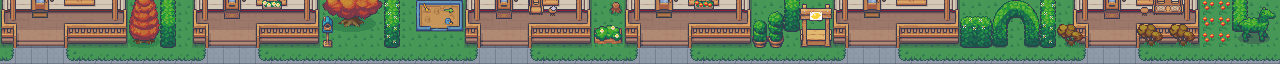
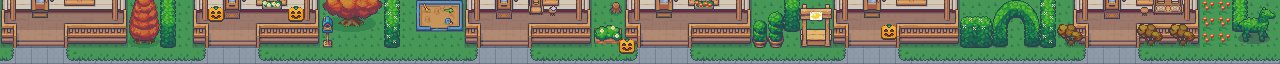
working on city

diff --git a/raw/maps/9_Shopping_Center_and_Markets_16x16.tsx b/raw/maps/9_Shopping_Center_and_Markets_16x16.tsx
@@ -1,0 +1,4 @@
+<?xml version="1.0" encoding="UTF-8"?>
+<tileset version="1.10" tiledversion="1.10.2" name="9_Shopping_Center_and_Markets_16x16" tilewidth="16" tileheight="16" tilecount="2176" columns="32">
+ <image source="S:/Shared drives/Axol Resources/assets/Game Art/modernexteriors-win/Modern_Exteriors_16x16/ME_Theme_Sorter_16x16/9_Shopping_Center_and_Markets_16x16.png" width="512" height="1088"/>
+</tileset>

diff --git a/raw/maps/5_Floor_Modular_Buildings_16x16.tsx b/raw/maps/5_Floor_Modular_Buildings_16x16.tsx
@@ -1,0 +1,4 @@
+<?xml version="1.0" encoding="UTF-8"?>
+<tileset version="1.10" tiledversion="1.10.2" name="5_Floor_Modular_Buildings_16x16" tilewidth="16" tileheight="16" tilecount="8288" columns="32">
+ <image source="S:/Shared drives/Axol Resources/assets/Game Art/modernexteriors-win/Modern_Exteriors_16x16/ME_Theme_Sorter_16x16/5_Floor_Modular_Buildings_16x16.png" width="512" height="4144"/>
+</tileset>

diff --git a/raw/maps/4_Generic_Buildings_16x16.tsx b/raw/maps/4_Generic_Buildings_16x16.tsx
@@ -1,0 +1,4 @@
+<?xml version="1.0" encoding="UTF-8"?>
+<tileset version="1.10" tiledversion="1.10.2" name="4_Generic_Buildings_16x16" tilewidth="16" tileheight="16" tilecount="4032" columns="32">
+ <image source="S:/Shared drives/Axol Resources/assets/Game Art/modernexteriors-win/Modern_Exteriors_16x16/ME_Theme_Sorter_16x16/4_Generic_Buildings_16x16.png" width="512" height="2016"/>
+</tileset>

diff --git a/raw/maps/6_Garage_Sales_16x16.tsx b/raw/maps/6_Garage_Sales_16x16.tsx
@@ -1,0 +1,4 @@
+<?xml version="1.0" encoding="UTF-8"?>
+<tileset version="1.10" tiledversion="1.10.2" name="6_Garage_Sales_16x16" tilewidth="16" tileheight="16" tilecount="1216" columns="32">
+ <image source="S:/Shared drives/Axol Resources/assets/Game Art/modernexteriors-win/Modern_Exteriors_16x16/ME_Theme_Sorter_16x16/6_Garage_Sales_16x16.png" width="512" height="608"/>
+</tileset>

diff --git a/raw/maps/3_City_Props_16x16.tsx b/raw/maps/3_City_Props_16x16.tsx
@@ -1,0 +1,4 @@
+<?xml version="1.0" encoding="UTF-8"?>
+<tileset version="1.10" tiledversion="1.10.2" name="3_City_Props_16x16" tilewidth="16" tileheight="16" tilecount="3520" columns="32">
+ <image source="S:/Shared drives/Axol Resources/assets/Game Art/modernexteriors-win/Modern_Exteriors_16x16/ME_Theme_Sorter_16x16/3_City_Props_16x16.png" width="512" height="1760"/>
+</tileset>
